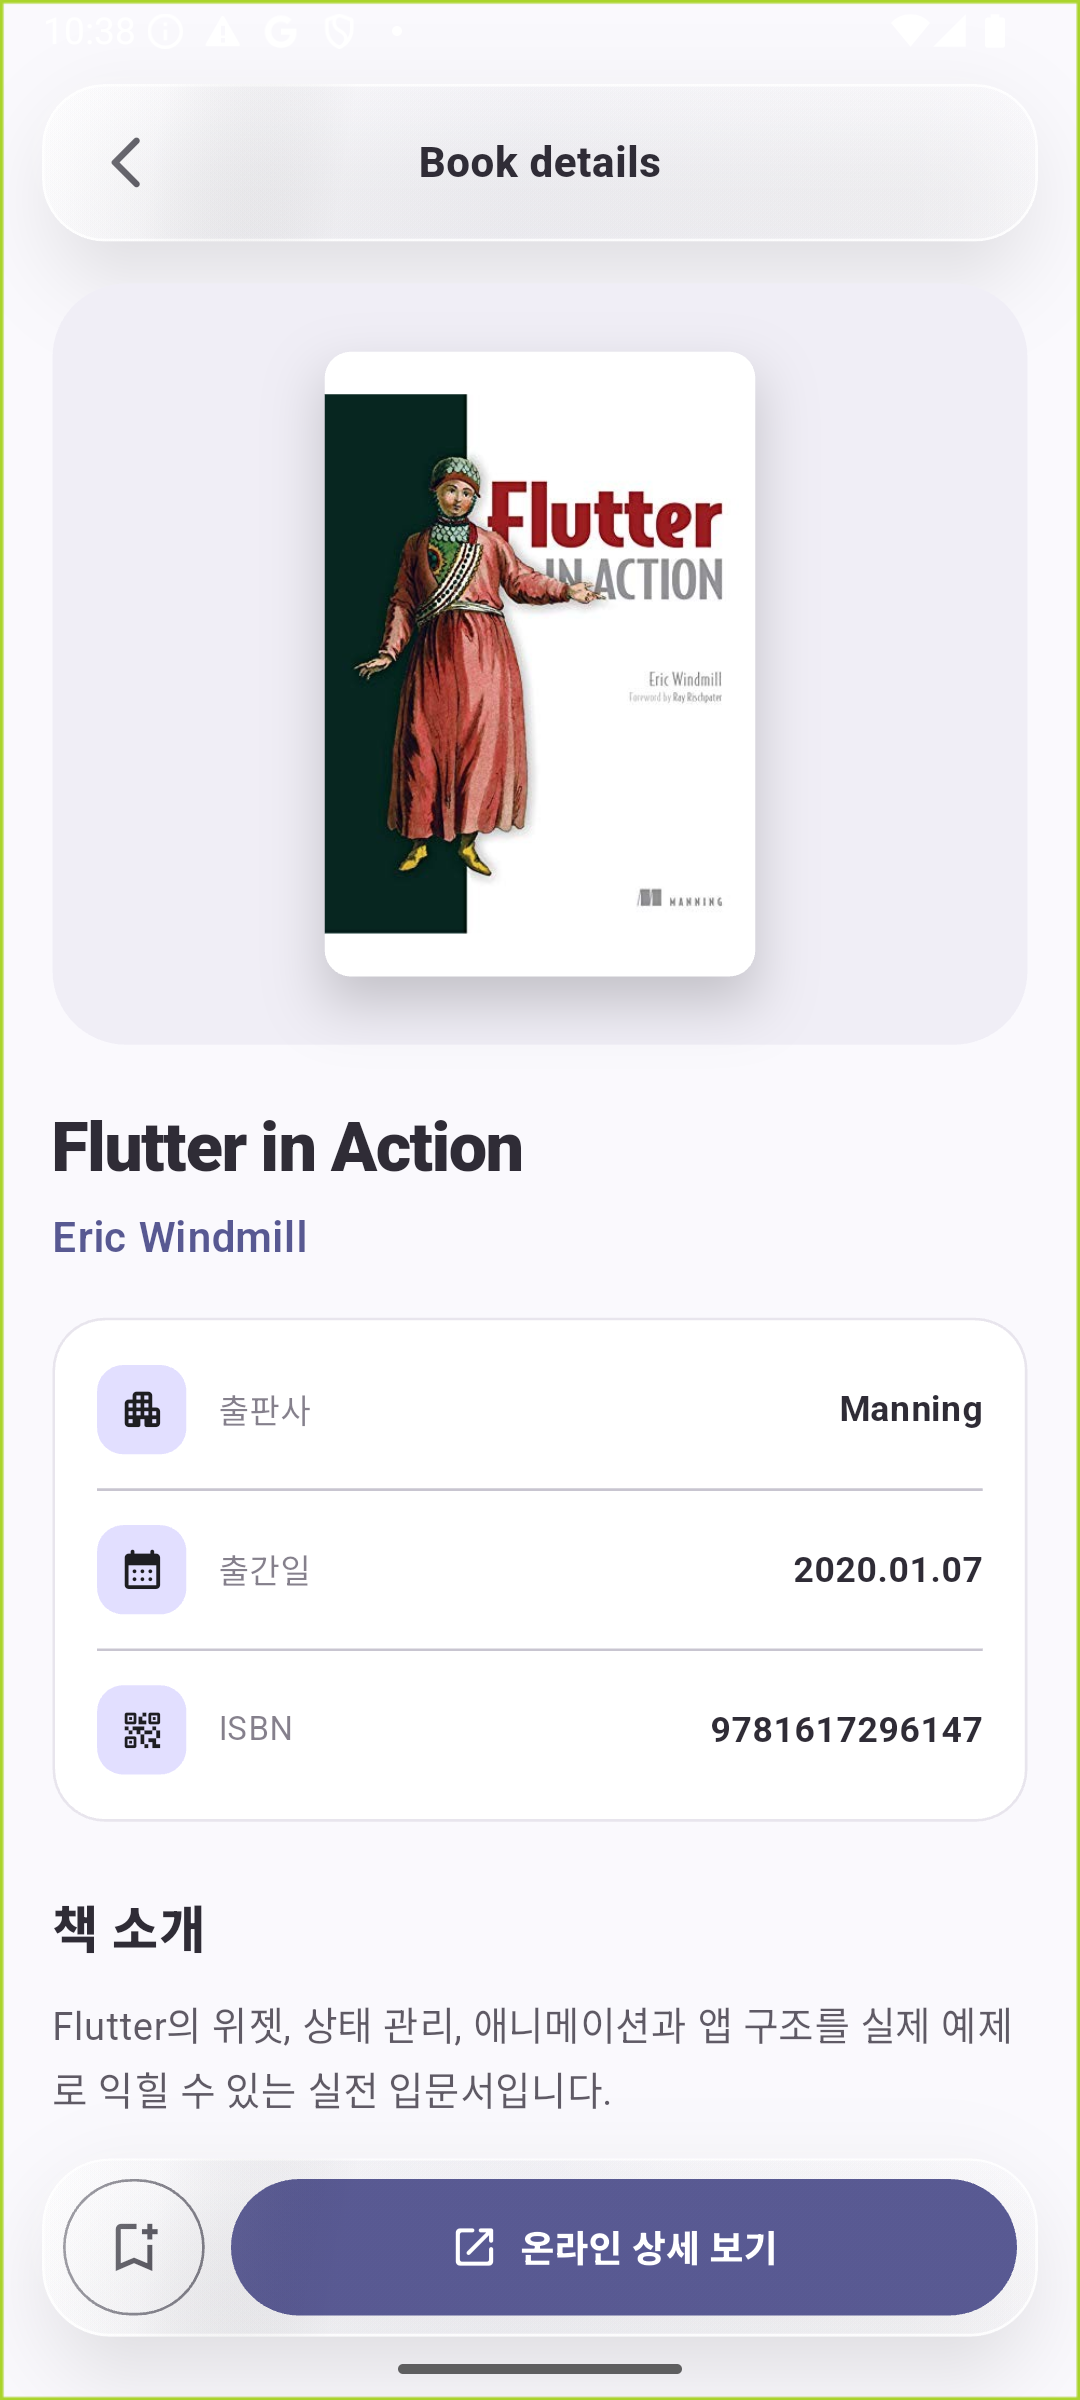
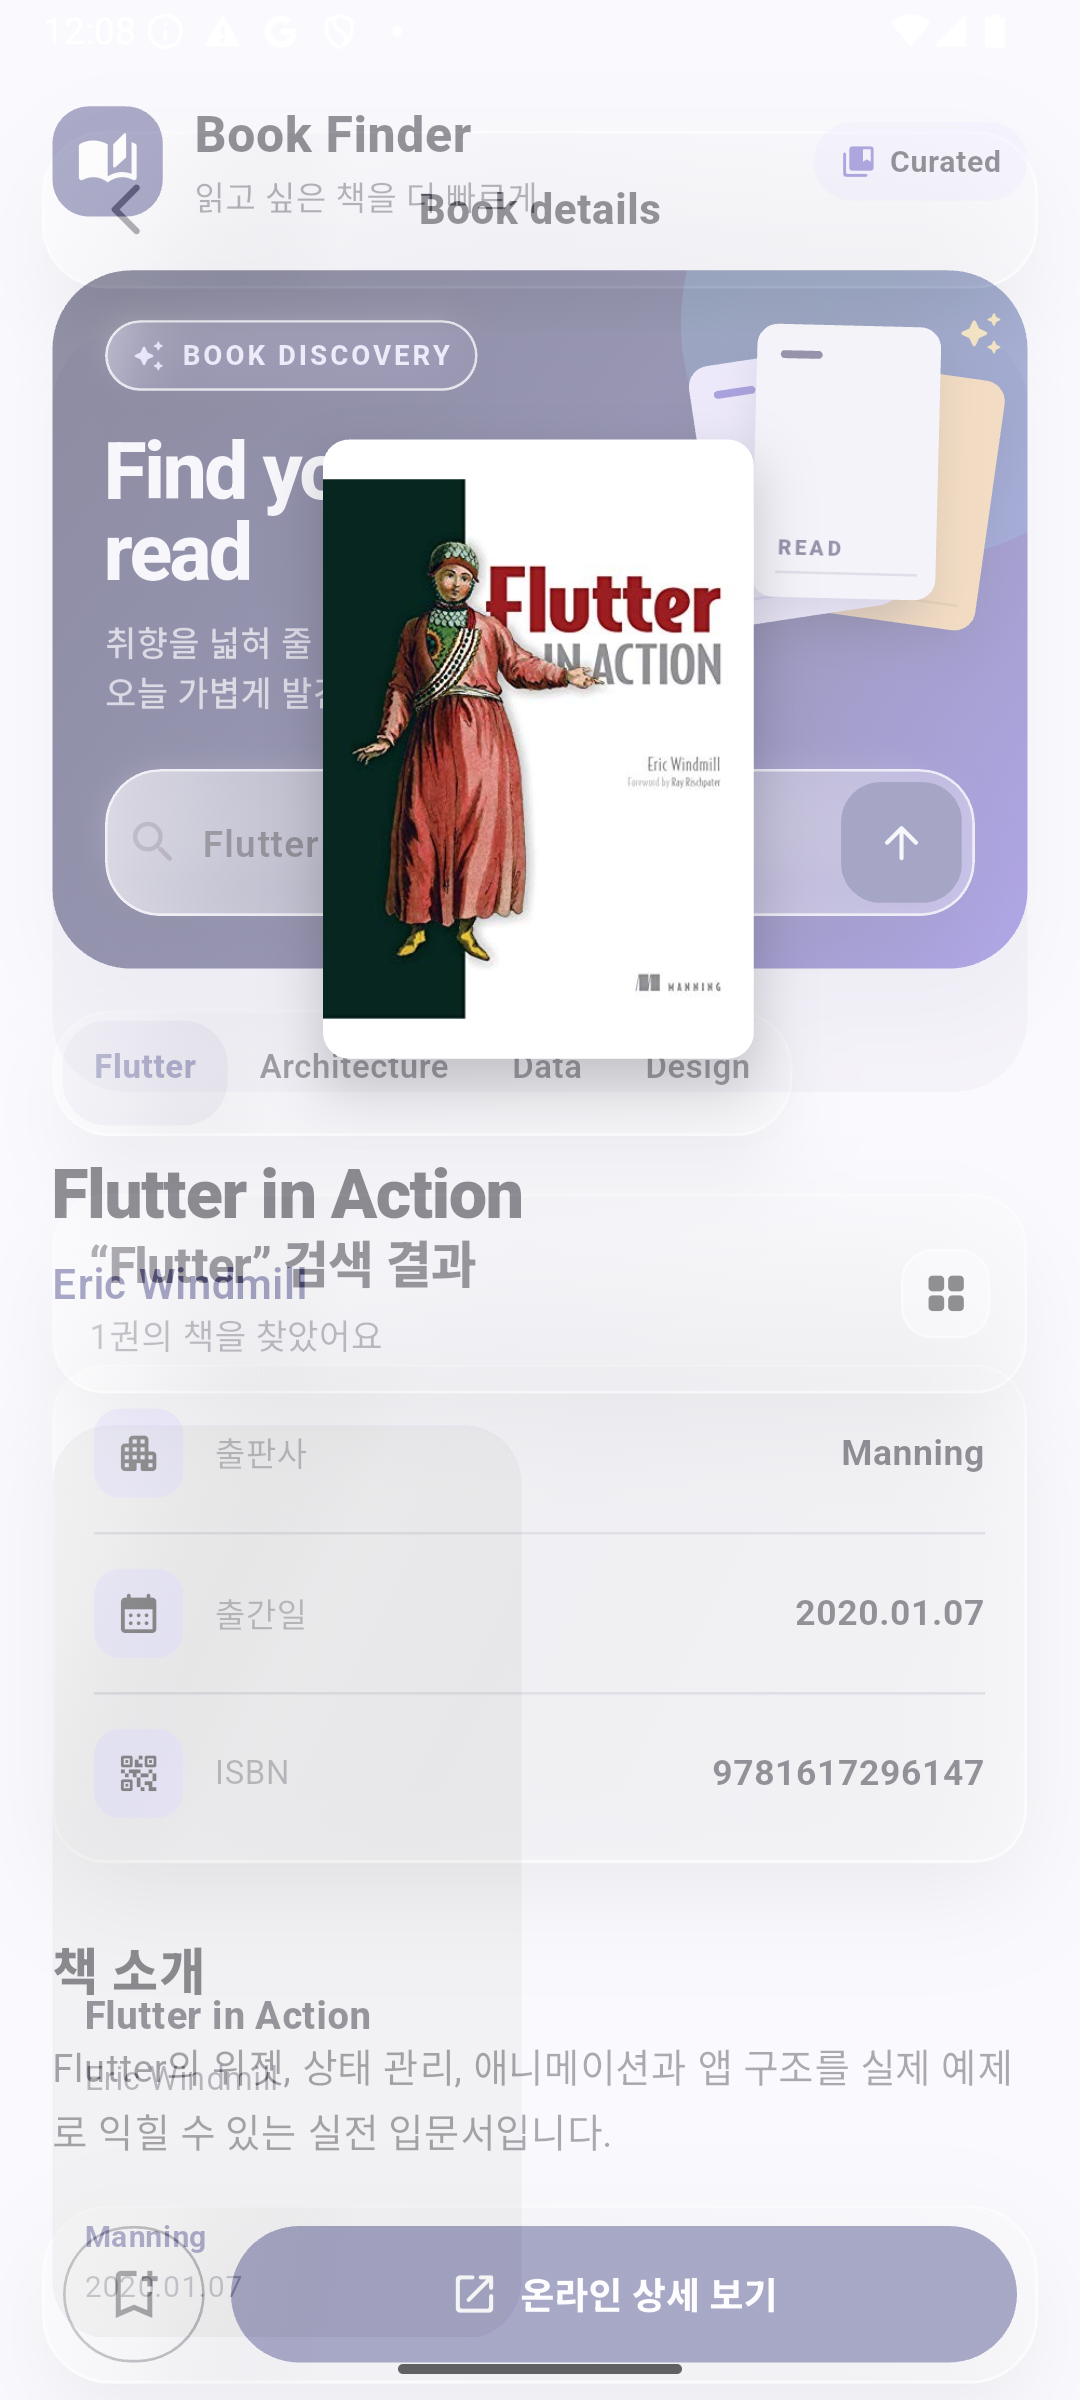
Refine liquid glass portfolio surfaces

diff --git a/lib/ui/pages/home/home_page.dart b/lib/ui/pages/home/home_page.dart
@@ -257,17 +257,13 @@ class _DiscoveryHero extends StatelessWidget {
                 child: Column(
                   crossAxisAlignment: CrossAxisAlignment.start,
                   children: [
-                    Container(
+                    AppGlassSurface(
+                      tint: const Color(0xFF4B477F),
+                      borderRadius: BorderRadius.circular(999),
+                      blurSigma: 10,
                       padding: const EdgeInsets.symmetric(
                         horizontal: 10,
                         vertical: 6,
-                      ),
-                      decoration: BoxDecoration(
-                        color: Colors.white.withValues(alpha: 0.11),
-                        borderRadius: BorderRadius.circular(999),
-                        border: Border.all(
-                          color: Colors.white.withValues(alpha: 0.14),
-                        ),
                       ),
                       child: const Row(
                         mainAxisSize: MainAxisSize.min,
@@ -503,44 +499,52 @@ class _ResultsHeading extends StatelessWidget {
   Widget build(BuildContext context) {
     return Padding(
       padding: const EdgeInsets.fromLTRB(20, 22, 20, 12),
-      child: Row(
-        children: [
-          Expanded(
-            child: Column(
-              crossAxisAlignment: CrossAxisAlignment.start,
-              children: [
-                Text(
-                  query.isEmpty ? '오늘의 큐레이션' : '“$query” 검색 결과',
-                  maxLines: 1,
-                  overflow: TextOverflow.ellipsis,
-                  style: const TextStyle(
-                    fontSize: 19,
-                    fontWeight: FontWeight.w800,
-                    letterSpacing: -0.3,
+      child: AppGlassSurface(
+        borderRadius: BorderRadius.circular(20),
+        blurSigma: 11,
+        padding: const EdgeInsets.symmetric(horizontal: 14, vertical: 12),
+        child: Row(
+          children: [
+            Expanded(
+              child: Column(
+                crossAxisAlignment: CrossAxisAlignment.start,
+                children: [
+                  Text(
+                    query.isEmpty ? '오늘의 큐레이션' : '“$query” 검색 결과',
+                    maxLines: 1,
+                    overflow: TextOverflow.ellipsis,
+                    style: const TextStyle(
+                      fontSize: 19,
+                      fontWeight: FontWeight.w800,
+                      letterSpacing: -0.3,
+                    ),
                   ),
-                ),
-                const SizedBox(height: 3),
-                Text(
-                  isLoading ? '책장을 살펴보는 중이에요' : '$count권의 책을 찾았어요',
-                  style: const TextStyle(
-                    color: Color(0xFF77727F),
-                    fontSize: 13,
+                  const SizedBox(height: 3),
+                  Text(
+                    isLoading ? '책장을 살펴보는 중이에요' : '$count권의 책을 찾았어요',
+                    style: const TextStyle(
+                      color: Color(0xFF77727F),
+                      fontSize: 13,
+                    ),
                   ),
-                ),
-              ],
-            ),
-          ),
-          if (!isLoading)
-            Container(
-              width: 34,
-              height: 34,
-              decoration: BoxDecoration(
-                color: Theme.of(context).colorScheme.surfaceContainerHighest,
-                borderRadius: BorderRadius.circular(12),
+                ],
               ),
-              child: const Icon(Icons.grid_view_rounded, size: 18),
             ),
-        ],
+            if (!isLoading)
+              Container(
+                width: 34,
+                height: 34,
+                decoration: BoxDecoration(
+                  color: Colors.white.withValues(alpha: .44),
+                  borderRadius: BorderRadius.circular(12),
+                  border: Border.all(
+                    color: Colors.white.withValues(alpha: .72),
+                  ),
+                ),
+                child: const Icon(Icons.grid_view_rounded, size: 18),
+              ),
+          ],
+        ),
       ),
     );
   }
@@ -784,14 +788,11 @@ class _EmptyResults extends StatelessWidget {
   Widget build(BuildContext context) {
     return Padding(
       padding: const EdgeInsets.fromLTRB(20, 12, 20, 40),
-      child: Container(
+      child: AppGlassSurface(
         key: const ValueKey('empty-results'),
+        borderRadius: BorderRadius.circular(24),
+        blurSigma: 12,
         padding: const EdgeInsets.symmetric(horizontal: 28, vertical: 36),
-        decoration: BoxDecoration(
-          color: Colors.white,
-          borderRadius: BorderRadius.circular(24),
-          border: Border.all(color: const Color(0xFFE8E5ED)),
-        ),
         child: Column(
           children: [
             Container(

diff --git a/lib/ui/pages/detail/detail_page.dart b/lib/ui/pages/detail/detail_page.dart
@@ -146,13 +146,10 @@ class _MetadataPanel extends StatelessWidget {
 
   @override
   Widget build(BuildContext context) {
-    return Container(
+    return AppGlassSurface(
+      borderRadius: BorderRadius.circular(20),
+      blurSigma: 12,
       padding: const EdgeInsets.symmetric(horizontal: 16, vertical: 4),
-      decoration: BoxDecoration(
-        color: Colors.white,
-        borderRadius: BorderRadius.circular(20),
-        border: Border.all(color: const Color(0xFFE8E5ED)),
-      ),
       child: Column(
         children: [
           _MetadataRow(

diff --git a/README.md b/README.md
@@ -4,7 +4,7 @@
 
 This project began as a feature-focused Flutter book search app. In 2026 I revisited the same product around **content/control hierarchy, adaptive interaction, motion/accessibility fallbacks, platform conventions, and rendering cost** rather than applying a visual skin to every card.
 
-기능 구현 중심으로 만들었던 초기 Flutter 책 검색 앱을 2026년에 다시 열어, 모든 카드에 효과를 입히는 대신 **책 표지를 중심으로 한 content hierarchy와 search/filter/detail action의 control hierarchy**를 분리해 리뉴얼했습니다.
+기능 구현 중심으로 만들었던 초기 Flutter 책 검색 앱을 2026년에 다시 열어, 모든 카드에 효과를 입히는 대신 **책 표지를 중심으로 한 content hierarchy와 search/filter/detail action의 control hierarchy**를 분리해 리뉴얼했습니다. 결과 summary, empty state, detail metadata처럼 탐색 맥락을 설명하는 보조 surface에는 더 낮은 강도의 glass-themed hierarchy를 적용했습니다.
 
 ## v1 → v2 / 성장 과정
 
@@ -15,7 +15,7 @@ This project began as a feature-focused Flutter book search app. In 2026 I revis
 | Controls | Standard search + chips + AppBar | Adaptive glass search, segmented discovery controls, floating detail actions |
 | Accessibility | Basic Material defaults | High-contrast transparency fallback, selected semantics, minimum tap targets |
 | Motion | Default transitions | Reduced-motion-aware control transitions |
-| Rendering | Styling-first | Blur restricted to compact controls, never each book card |
+| Rendering | Styling-first | Glass-themed controls plus contextual result/empty/detail metadata surfaces; book cards and covers stay sharp |
 
 A mobile **Book Discovery app** built with Flutter and Riverpod. Search for books, compare covers and metadata in a two-column discovery shelf, then open a detailed view with description, ISBN, and a link to the online book page.
 
@@ -70,9 +70,9 @@ UI and data access responsibilities are separated through `HomePage → HomeView
 
 `HomePage → HomeViewModel → BookRepository` 흐름으로 UI와 데이터 접근 책임을 분리했습니다. API 응답의 `<b>` 같은 markup은 `Book` 생성 시 정리해 화면에 그대로 노출되지 않도록 했습니다.
 
-The v2 control renderer lives behind `lib/v2/v2_glass.dart`. `MediaQuery.highContrast` removes expensive translucency in favor of an opaque surface, while `MediaQuery.disableAnimations` shortens segmented-control motion to zero. Book covers, result cards, metadata panels, and editorial copy remain solid surfaces.
+The v2 renderer lives behind `lib/v2/v2_glass.dart`. `MediaQuery.highContrast` removes expensive translucency in favor of an opaque surface, while `MediaQuery.disableAnimations` shortens segmented-control motion to zero. Book covers, result cards, and editorial copy remain sharp; discovery context, result summary, empty state, and detail metadata use lower-intensity translucent surfaces.
 
-v2 control renderer는 `lib/v2/v2_glass.dart`에 분리했습니다. `highContrast`에서는 blur를 제거하고 opacity를 높이며, `disableAnimations`에서는 control transition을 0으로 줄입니다. 반대로 책 표지, 검색 결과 카드, metadata panel, 설명문은 solid surface로 유지합니다.
+v2 renderer는 `lib/v2/v2_glass.dart`에 분리했습니다. `highContrast`에서는 blur를 제거하고 opacity를 높이며, `disableAnimations`에서는 control transition을 0으로 줄입니다. 책 표지, 검색 결과 카드, 설명문은 선명하게 유지하고 discovery context, result summary, empty state, detail metadata에는 강도를 낮춘 adaptive translucent surface를 사용합니다.
 
 ## Tech Stack / 기술 스택
 
